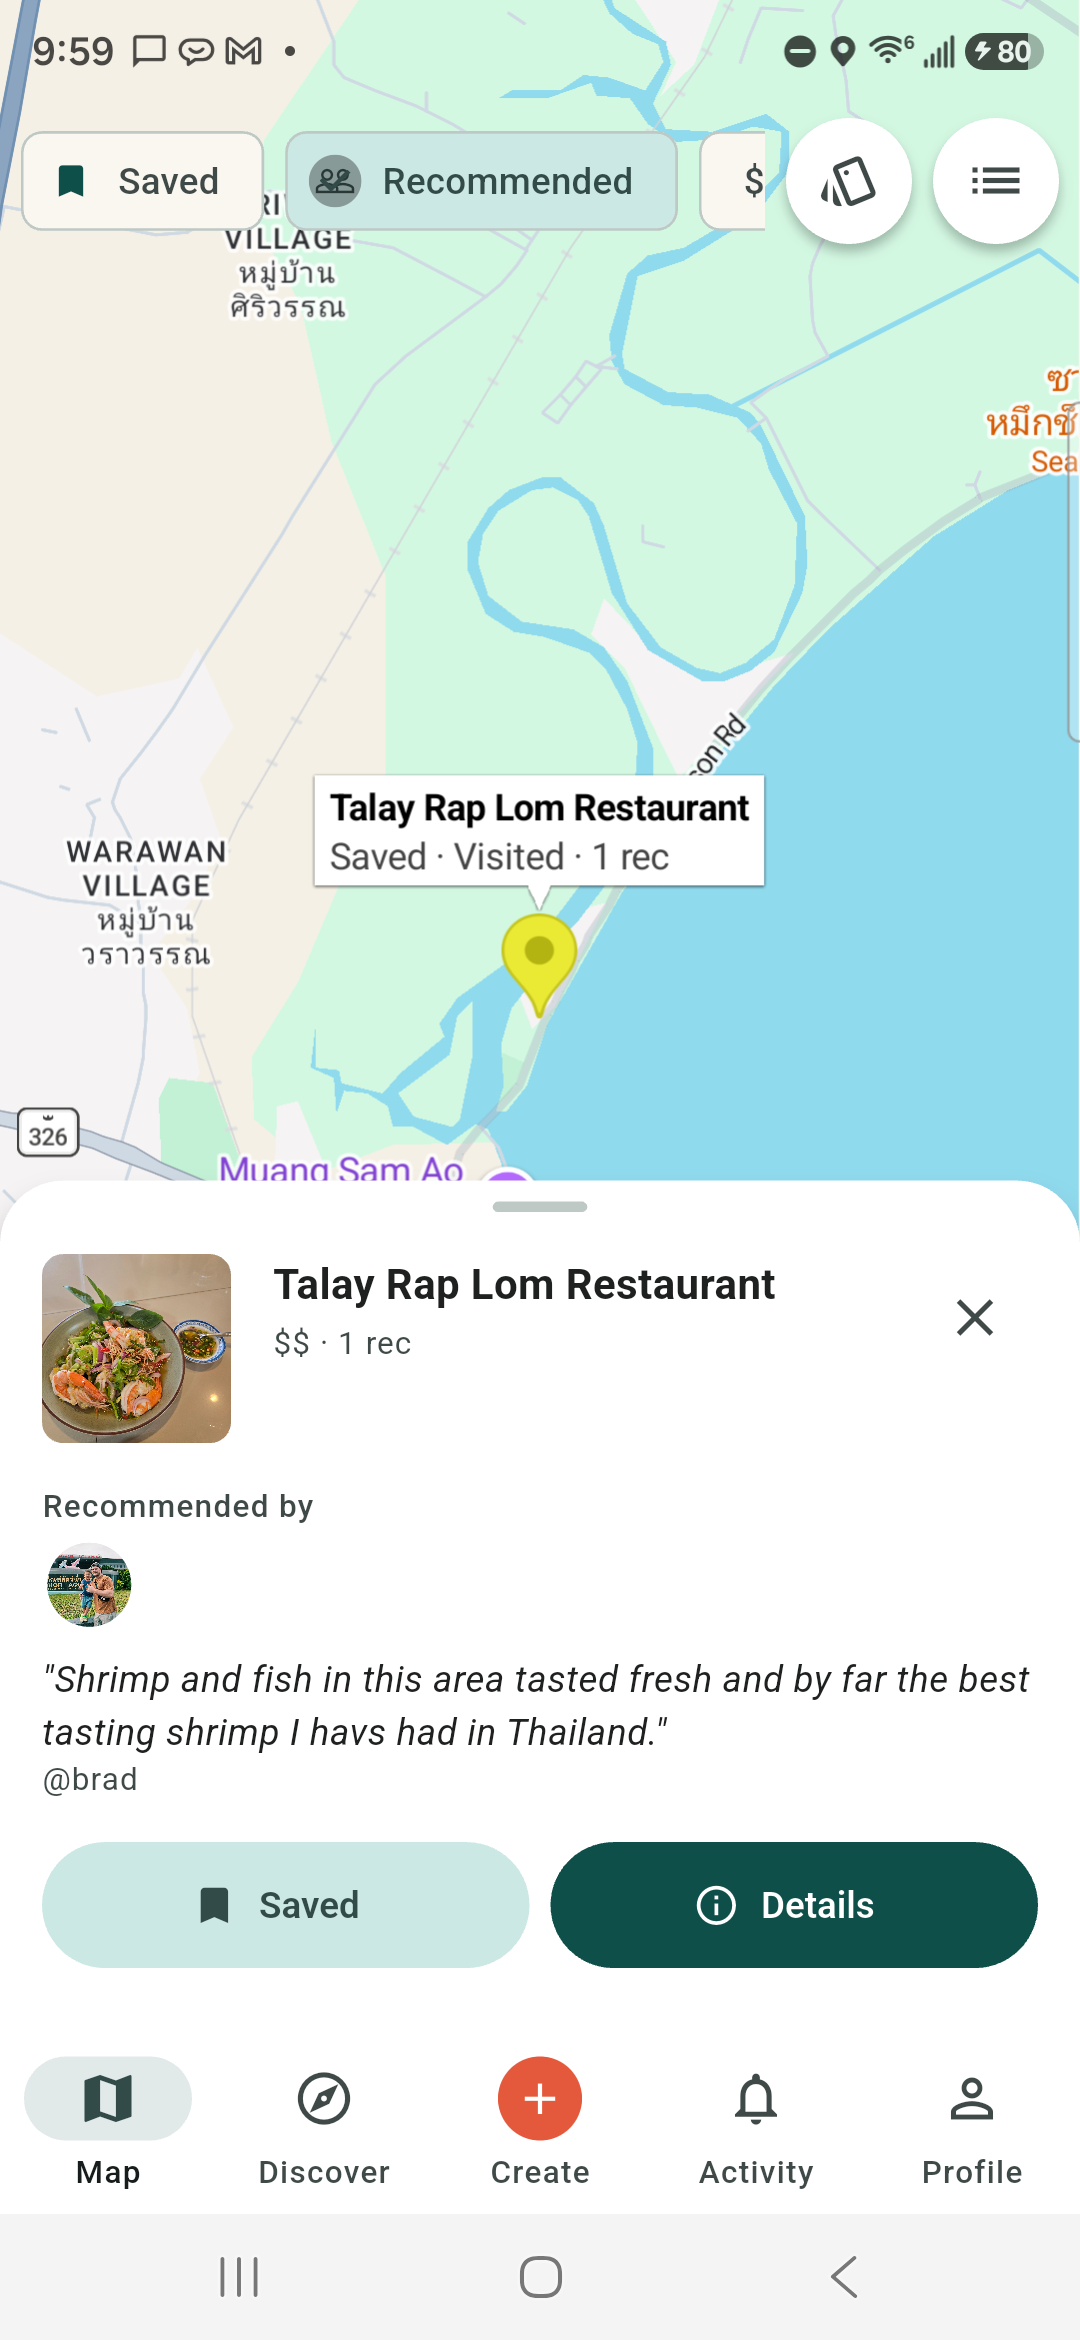
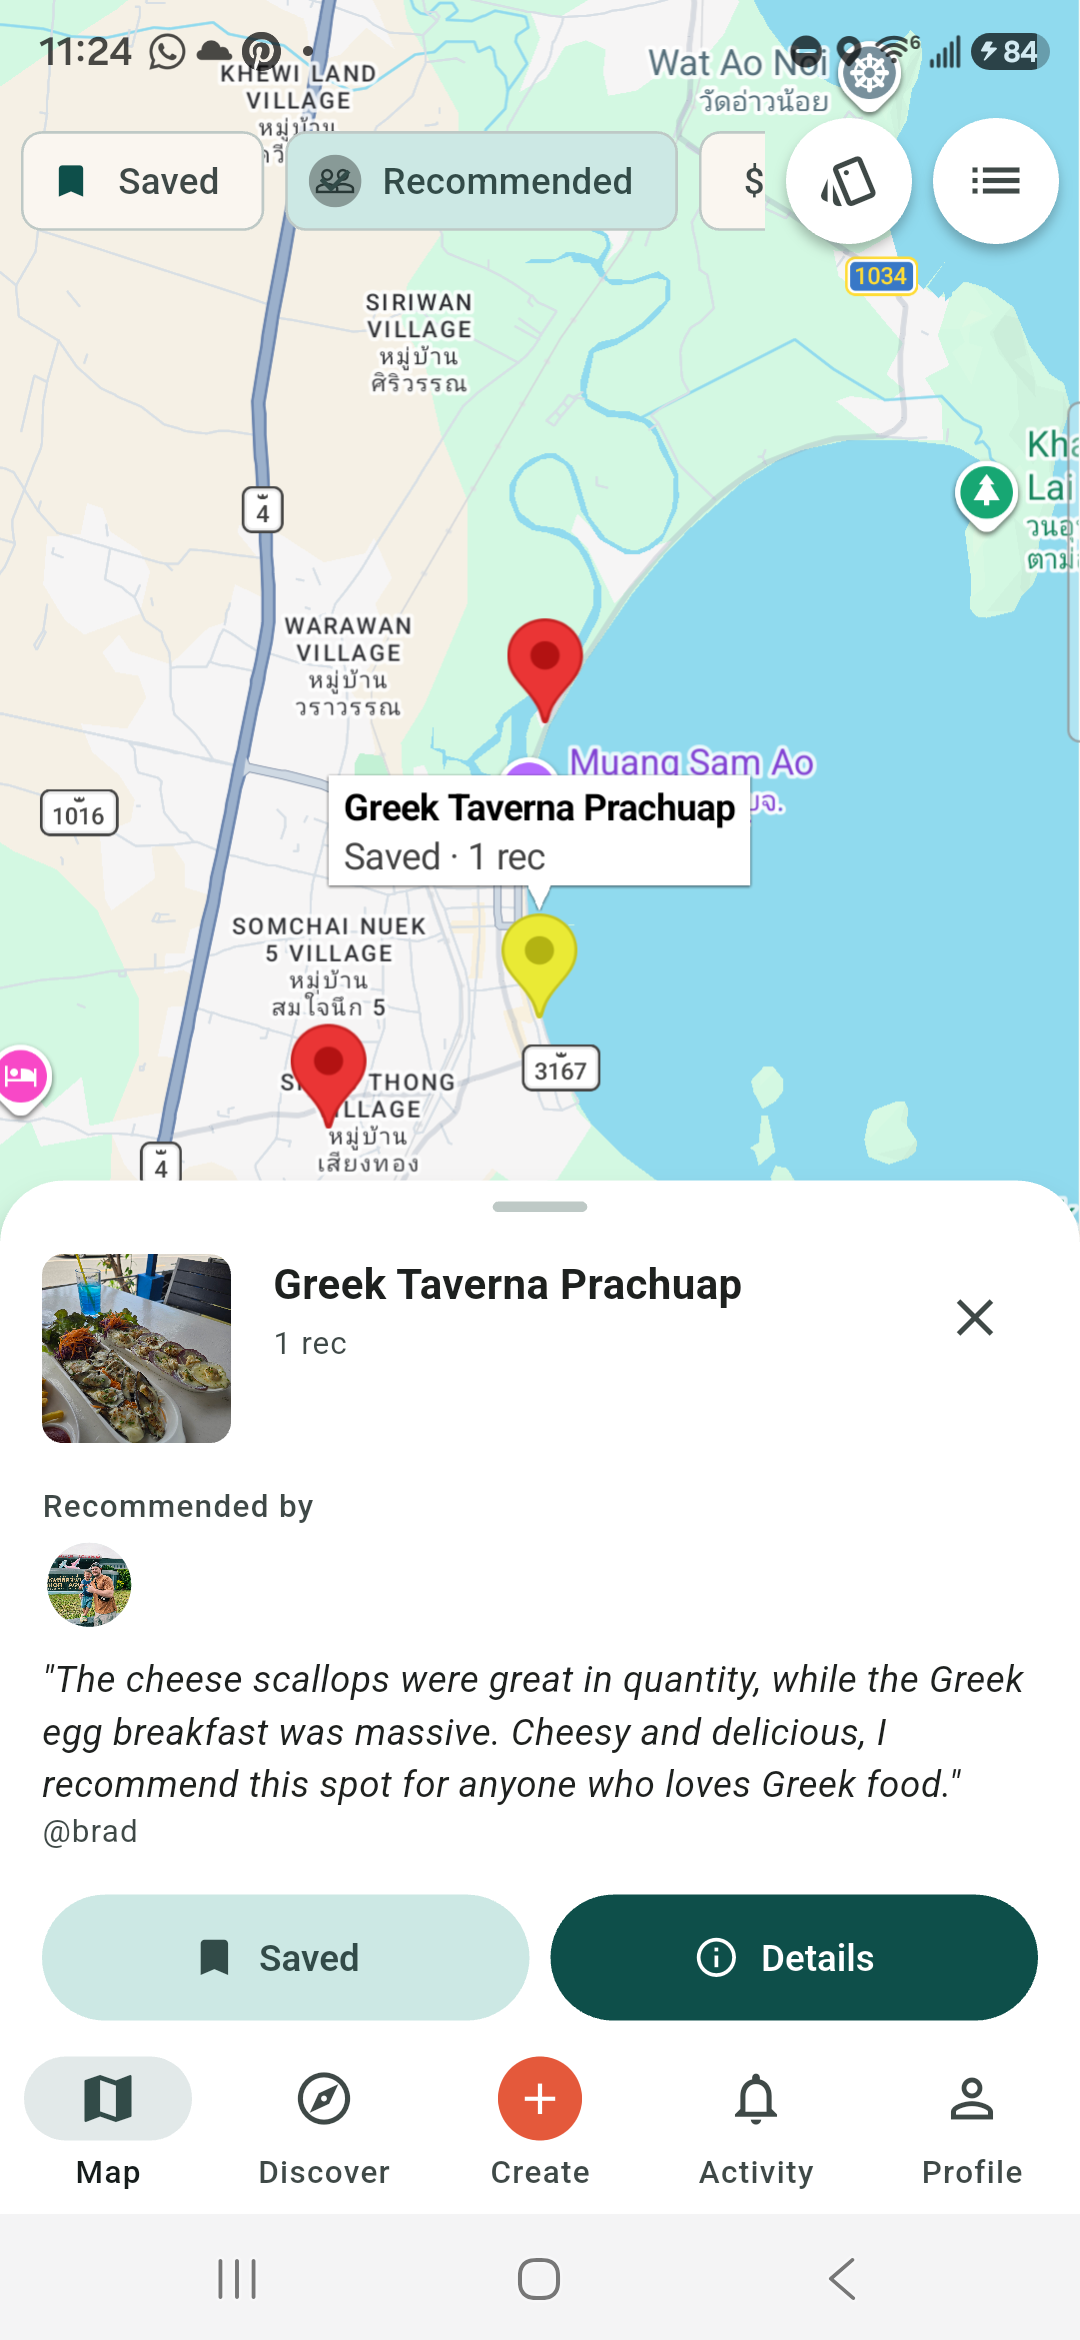
Reshoot screenshots, and take system bar heights from the batch
The navigation bar detector is defeated by a card that scrolls underneath it,
which left a sliver of the back button in one shot. Every capture comes off the
same phone, so the bars are the same height in all of them; taking the batch
median instead means one bad reading cannot move the result.

Shots reshot against the fixed build: singular counts throughout, the corrected
recommendation text, and Greek Taverna rather than Talay Rap Lom as the hero.
Talay's cover photo is a Google Places interior shot full of identifiable
diners, and putting strangers' faces in a store listing is not something to do
by accident.

diff --git a/tool/prepare_screenshots.py b/tool/prepare_screenshots.py
@@ -1,13 +1,15 @@
-"""Crops raw phone captures into Play-legal store screenshots.
+"""Crops raw phone captures into Play-legal store screenshots.
 
 Play's rule that bites here: "the maximum dimension cannot exceed twice the
 minimum dimension". A raw 1080x2340 capture off a modern phone is 2.17:1 and
 gets rejected. Trimming Android's own status bar and navigation bar fixes the
 ratio and looks better anyway - no clock, no battery, no back button.
 
-The crop is measured, not guessed: the navigation bar is found by scanning up
-from the bottom for the row where the system bar's flat fill ends, so a device
-with a different bar height still comes out right.
+The crop is measured, not guessed: the bars are found by their pixels, so a
+device with different bar heights still comes out right. The heights are taken
+as the batch median rather than per image, because a card that scrolls under
+the navigation bar defeats the detection on that one shot and would leave a
+sliver of the back button in the listing.
 
   python tool/prepare_screenshots.py
 
@@ -78,13 +80,16 @@ def find_status_bar(a):
     return min(int(last_glyph * 1.6), 120)
 
 
-def prepare(path):
+def measure(path):
+    """Status and navigation bar heights for one capture."""
+    a = np.asarray(Image.open(path).convert('RGB')).astype(int)
+    return find_status_bar(a), find_nav_bar(a)
+
+
+def prepare(path, status, nav):
     im = Image.open(path).convert('RGB')
-    a = np.asarray(im).astype(int)
     w, h = im.size
 
-    nav = find_nav_bar(a)
-    status = find_status_bar(a)
     im = im.crop((0, status, w, h - nav))
     w, h = im.size
 
@@ -94,7 +99,7 @@ def prepare(path):
         im = im.crop((0, h - int(w * MAX_RATIO), w, h))
         w, h = im.size
 
-    return im, status, nav
+    return im
 
 
 def main():
@@ -106,9 +111,20 @@ def main():
     if not names:
         sys.exit(f'no .png files in {SRC}')
 
+    # Every shot comes off the same phone, so the system bars are the same
+    # height in all of them. Measuring per image lets one bad reading through:
+    # a card overlapping the navigation bar breaks the flat-fill detection and
+    # leaves a sliver of the back button in the listing. Take the batch median
+    # instead, which one odd image cannot move.
+    measured = [measure(os.path.join(SRC, n)) for n in names]
+    status = int(np.median([m[0] for m in measured]))
+    nav = int(np.median([m[1] for m in measured]))
+    print(f'system bars: {status}px top, {nav}px bottom '
+          f'(median of {len(names)})\n')
+
     failures = 0
     for name in names:
-        im, status, nav = prepare(os.path.join(SRC, name))
+        im = prepare(os.path.join(SRC, name), status, nav)
         dest = os.path.join(OUT, name)
         # 24-bit PNG, no alpha - Play rejects alpha on store assets.
         im.save(dest, optimize=True)
@@ -129,7 +145,7 @@ def main():
         if problems:
             failures += 1
         print(f'{name:28} {w}x{h}  {size // 1024:>5}KB  '
-              f'(cut {status}px top, {nav}px bottom)  {status_txt}')
+              f'{status_txt}')
 
     print(f'\n{len(names)} prepared in {OUT}')
     if failures:
